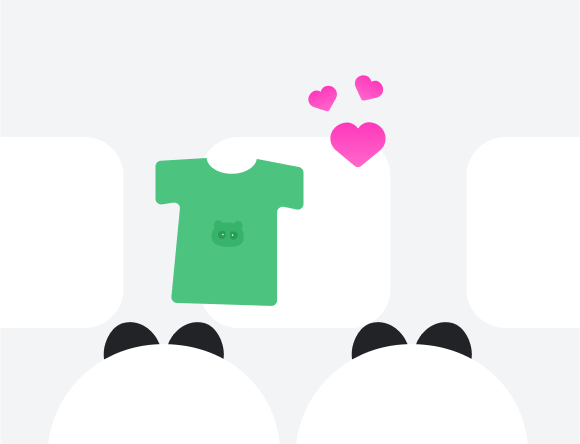
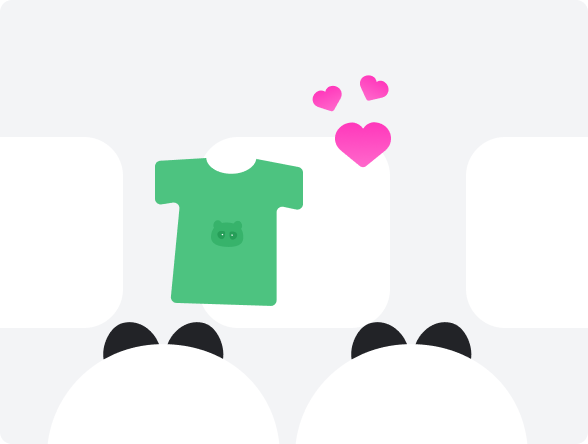
이미지파일 변경

diff --git a/homepage.css b/homepage.css
@@ -49,8 +49,8 @@ header {
 .main-banner {
   height: 540px;
   display: flex;
-  flex: 0 0 1920px;
   width: 100%;
+  max-width: 1920px;
 }
 
 .main-banner-text {
@@ -133,7 +133,8 @@ header {
 
 .card {
   gap: 64px;
-  max-width: 980px;
+  width: 100%;
+  max-width: 988px;
   height: auto;
   background-color: #fcfcfc;
   margin: 138px 466px;
@@ -180,8 +181,8 @@ header {
 
 .card img {
   width: 100%;
-  max-width: 579px;
-  aspect-ratio: 579 / 444;
+  max-width: 588px;
+  aspect-ratio: 588 / 444;
   height: auto;
   object-fit: cover;
   display: block;
